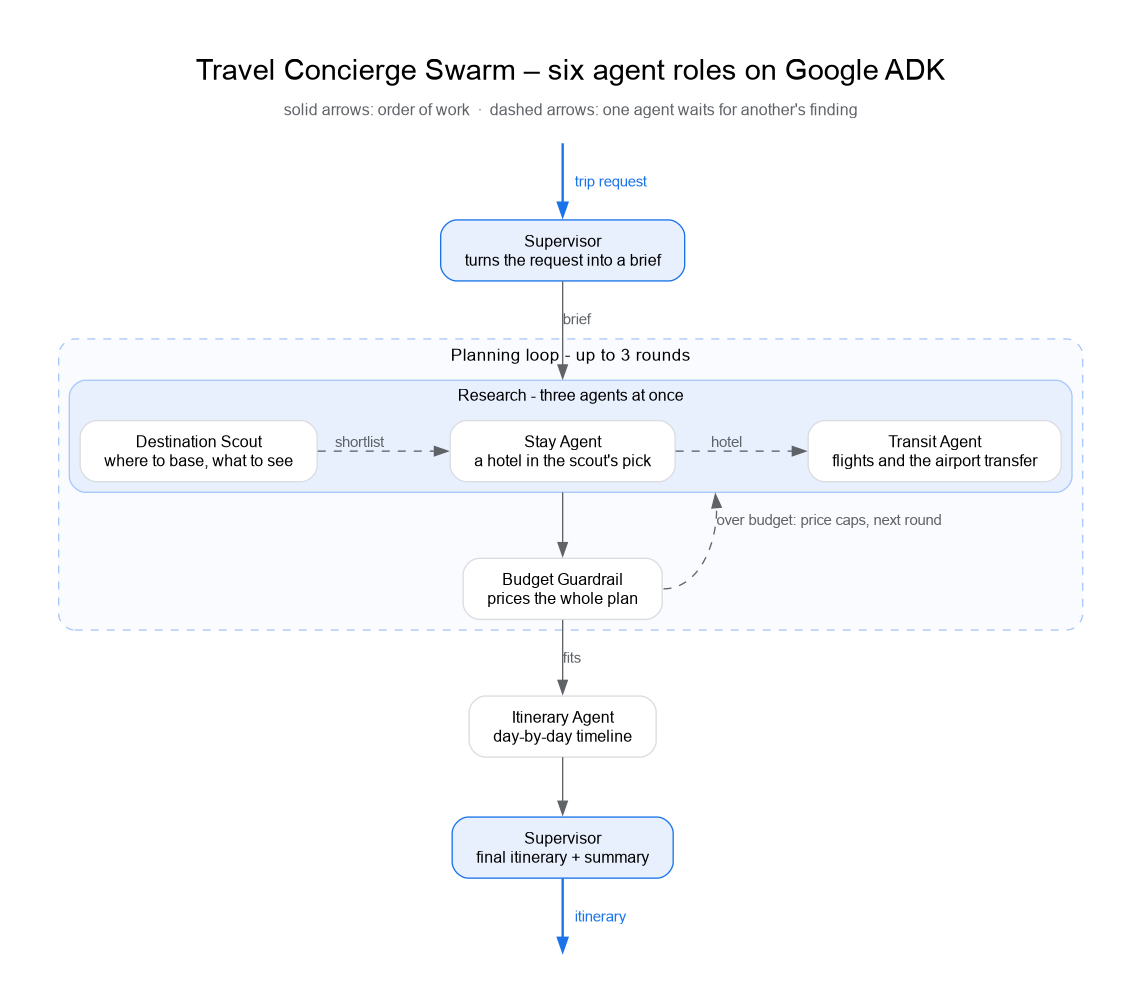
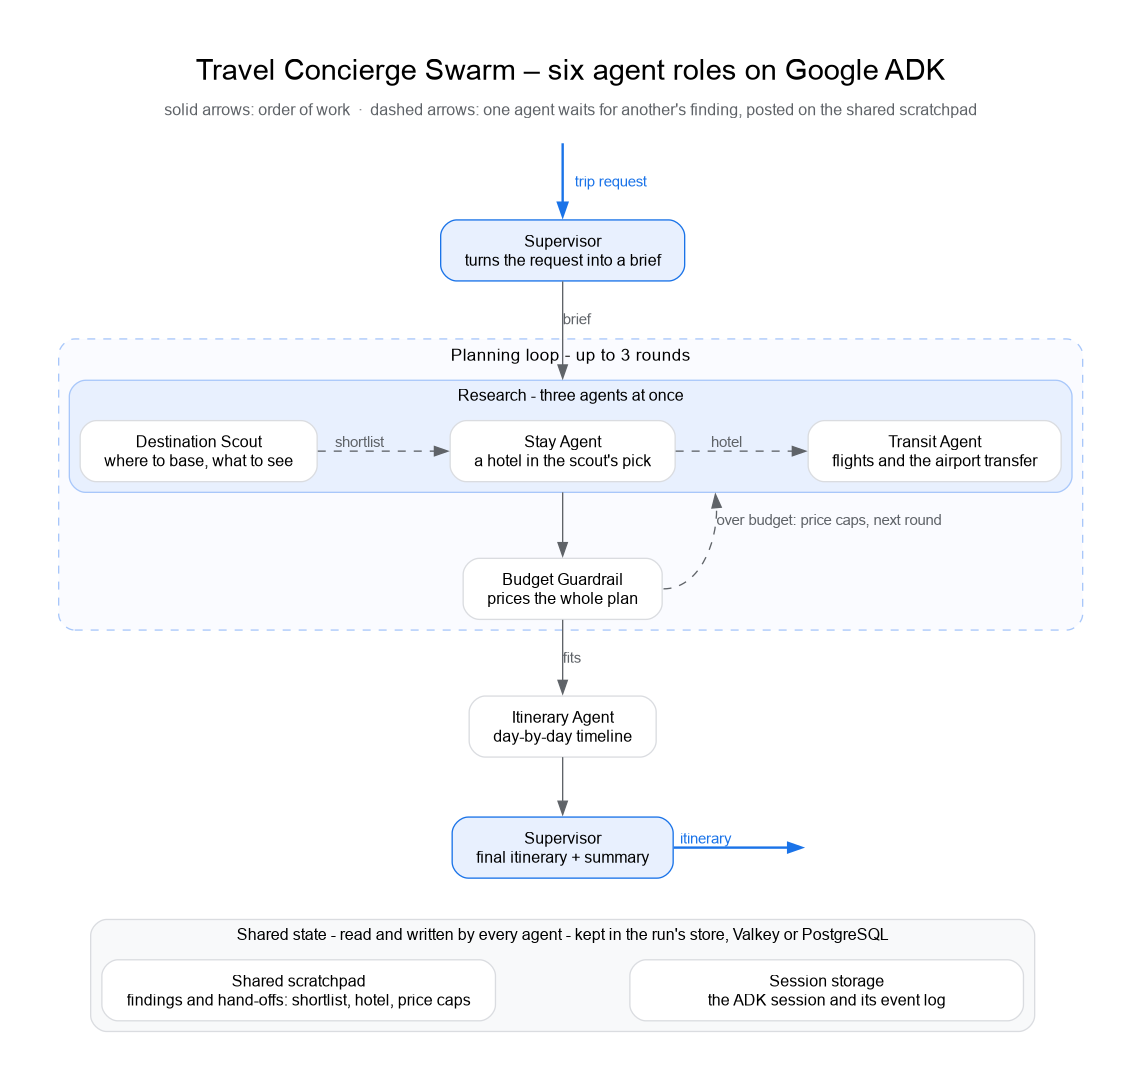
docs: diagram gains a shared-state layer (scratchpad + session storage)
A light box under the agents, labelled as read and written by every agent and kept in the run's store, holds two cells: the shared scratchpad (findings and hand-offs) and the ADK session storage (session + event log). The itinerary exit arrow leaves sideways so the layer is not read as a flow step.

diff --git a/scripts/render_architecture.py b/scripts/render_architecture.py
@@ -6,11 +6,12 @@
 
 Needs Graphviz (`dot`) on the PATH. Output: application.{png,svg}.
 
-This is the demo picture and it shows the agents only: the six roles, the
-planning loop and the hand-offs between agents. The server, the scratchpad,
-the stores and Gemini are deliberately left out (the README covers them).
-Every word in the picture is still a fact about the app, so keep it in step
-when the roster or the loop changes.
+This is the demo picture: the six agent roles, the planning loop, the
+hand-offs between agents, and underneath them the shared state every agent
+reads and writes (scratchpad + ADK session storage, kept in the run's store).
+The server, store internals and Gemini are deliberately left out (the README
+covers them). Every word in the picture is still a fact about the app, so
+keep it in step when the roster, the loop or the state layout changes.
 """
 from __future__ import annotations
 
@@ -26,7 +27,8 @@ BLUE = "#1a73e8"
 TITLE = (
     '<<FONT POINT-SIZE="22">Travel Concierge Swarm &#8211; six agent roles on Google ADK</FONT>'
     '<BR/><BR/><FONT POINT-SIZE="12" COLOR="#5f6368">'
-    "solid arrows: order of work &#160;&#183;&#160; dashed arrows: one agent waits for another's finding"
+    "solid arrows: order of work &#160;&#183;&#160; "
+    "dashed arrows: one agent waits for another's finding, posted on the shared scratchpad"
     "</FONT><BR/><BR/>>"
 )
 
@@ -41,7 +43,6 @@ def application() -> None:
 
     # Invisible end points so the flow has a visible start and finish.
     g.node("start", "", shape="point", style="invis", width="0.02", height="0.02")
-    g.node("end", "", shape="point", style="invis", width="0.02", height="0.02")
 
     g.node("intake", "Supervisor\nturns the request into a brief", fillcolor="#e8f0fe", color=BLUE)
     with g.subgraph(name="cluster_loop") as loop:
@@ -58,7 +59,24 @@ def application() -> None:
                 row.node("transit", "Transit Agent\nflights and the airport transfer")
         loop.node("budget", "Budget Guardrail\nprices the whole plan")
     g.node("itinerary", "Itinerary Agent\nday-by-day timeline")
-    g.node("final", "Supervisor\nfinal itinerary + summary", fillcolor="#e8f0fe", color=BLUE)
+    # The exit arrow leaves sideways so the state layer below is not read as the next step.
+    with g.subgraph() as last:
+        last.attr(rank="same")
+        last.node("final", "Supervisor\nfinal itinerary + summary", fillcolor="#e8f0fe", color=BLUE)
+        last.node("end", "", shape="point", style="invis", width="0.02", height="0.02")
+
+    # Shared state: a layer under the agents rather than an arrow from one of
+    # them, so it reads as used by every role. Both halves live in the store
+    # picked for the run.
+    with g.subgraph(name="cluster_state") as state:
+        state.attr(label="Shared state - read and written by every agent - kept in the run's store, Valkey or PostgreSQL",
+                   fontname=FONT, fontsize="12", style="rounded", color="#dadce0", bgcolor="#f8f9fa")
+        with state.subgraph() as cells:
+            cells.attr(rank="same")
+            cells.node("pad", "Shared scratchpad\nfindings and hand-offs: shortlist, hotel, price caps", width="4.1")
+            # Invisible anchor between the cells: the layer is centred on it (see below).
+            cells.node("mid", "", shape="point", style="invis", width="0.02", height="0.02")
+            cells.node("session", "Session storage\nthe ADK session and its event log", width="4.1")
 
     # Order of work. Compound edges touch the parallel block as one unit. The
     # row is rank=same, so scout -> stay -> transit are flat edges (tail left of
@@ -74,8 +92,14 @@ def application() -> None:
            constraint="false", lhead="cluster_par", tailport="e", headport="e")
     g.edge("budget", "itinerary", label="fits")
     g.edge("itinerary", "final")
-    g.edge("final", "end", label="   itinerary", color=BLUE, fontcolor=BLUE, penwidth="1.8",
-           headclip="false")
+    g.edge("final", "end", xlabel="itinerary  ", color=BLUE, fontcolor=BLUE, penwidth="1.8")
+
+    # Layout only: the state layer is centred under the last agent through the
+    # `mid` anchor (strong pull); the light pulls on the cells keep them close.
+    # Creation order (pad, mid, session) gives the left-to-right order.
+    g.edge("final", "pad", style="invis")
+    g.edge("final", "mid", style="invis", weight="20")
+    g.edge("final", "session", style="invis")
 
     g.render(str(OUT / "application"), cleanup=True)
     g.format = "svg"

diff --git a/README.md b/README.md
@@ -5,9 +5,9 @@ A 6-agent travel planner built on Google's Agent Development Kit (ADK). It is us
 
 ## Architecture
 
-![The agent swarm: Supervisor → planning loop (Destination Scout, Stay Agent and Transit Agent in parallel, then the Budget Guardrail; over budget → price caps → next round, up to 3) → Itinerary Agent → Supervisor](docs/architecture/application.png)
+![The agent swarm: Supervisor → planning loop (Destination Scout, Stay Agent and Transit Agent in parallel, then the Budget Guardrail; over budget → price caps → next round, up to 3) → Itinerary Agent → Supervisor; underneath, the shared state every agent reads and writes — the scratchpad and the ADK session storage — kept in the run's store, Valkey or PostgreSQL](docs/architecture/application.png)
 
-The picture shows the agents only — the six roles, the planning loop and the hand-offs between agents. The server, the shared scratchpad, the two stores and Gemini are described in the sections below. Rendered by `scripts/render_architecture.py` (Graphviz + the `graphviz` package, instructions in the docstring); every word in it is true of the app, so re-render it when the roster or the loop changes.
+The picture shows the agents — the six roles, the planning loop and the hand-offs between agents — and the shared state they all read and write: the scratchpad (findings and hand-offs) and the ADK session storage (the session and its event log), both kept in whichever store the run uses. The server, the store internals and Gemini are described in the sections below. Rendered by `scripts/render_architecture.py` (Graphviz + the `graphviz` package, instructions in the docstring); every word in it is true of the app, so re-render it when the roster, the loop or the state layout changes.
 
 ## The agents
 
